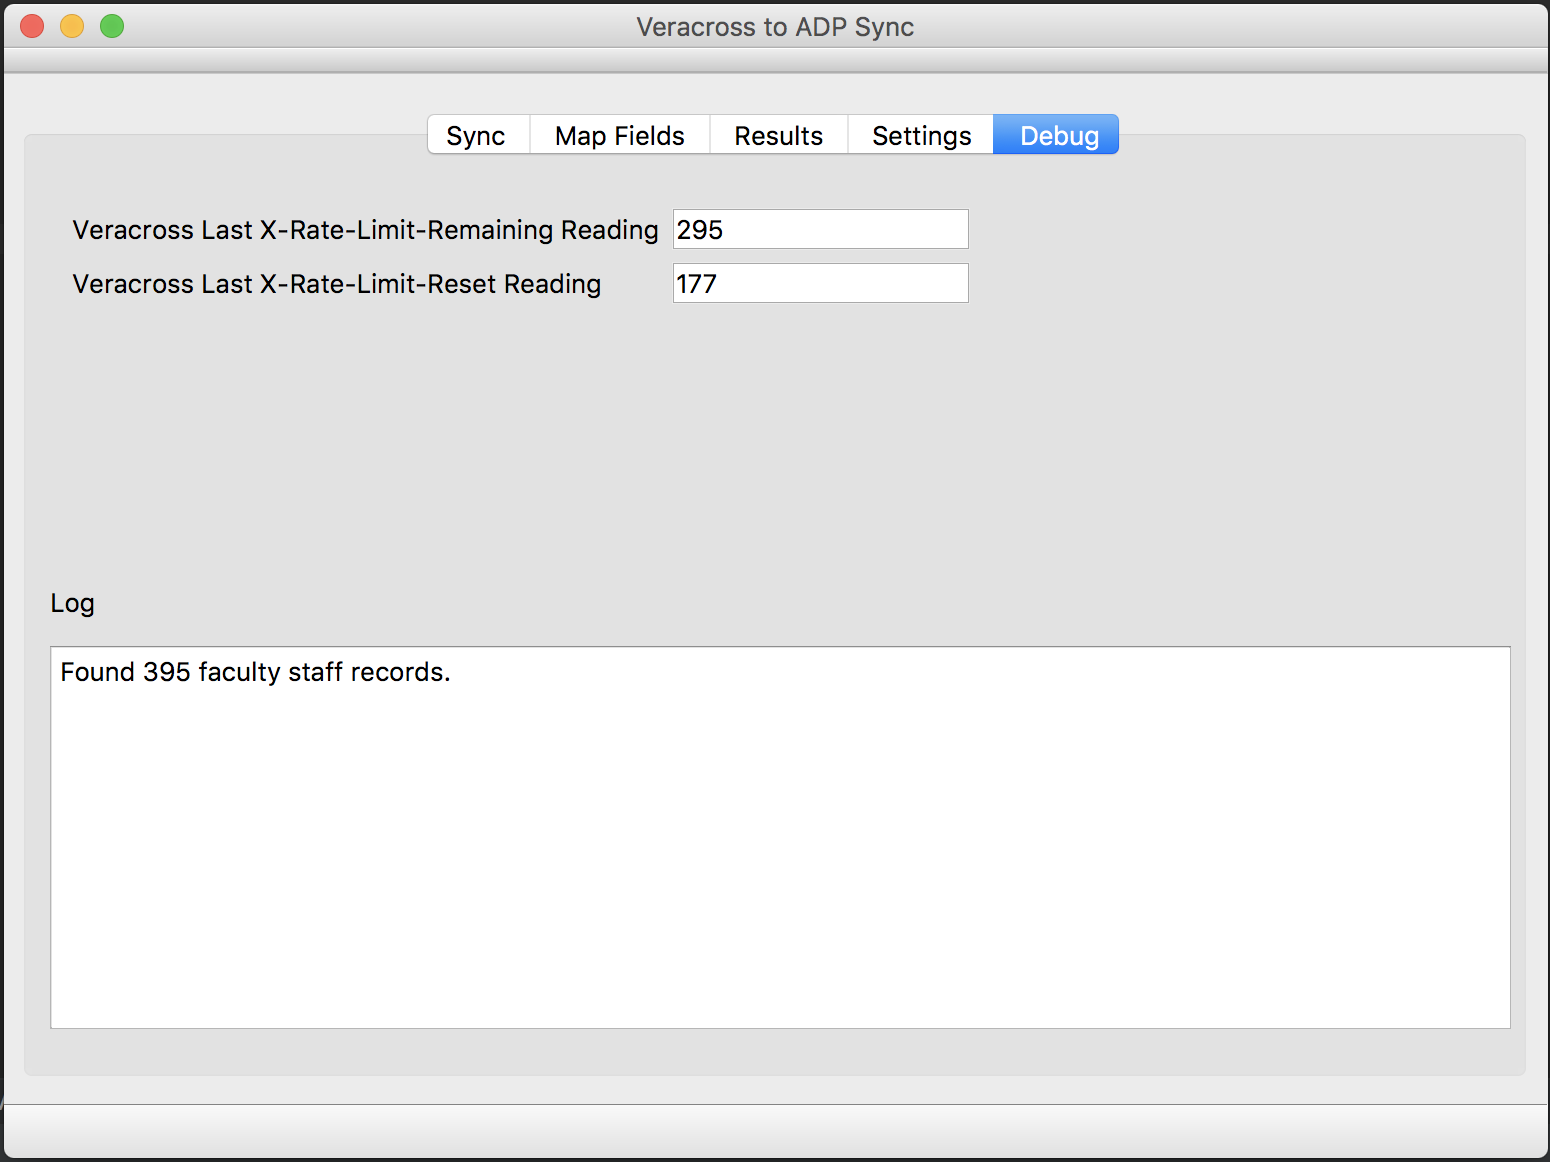
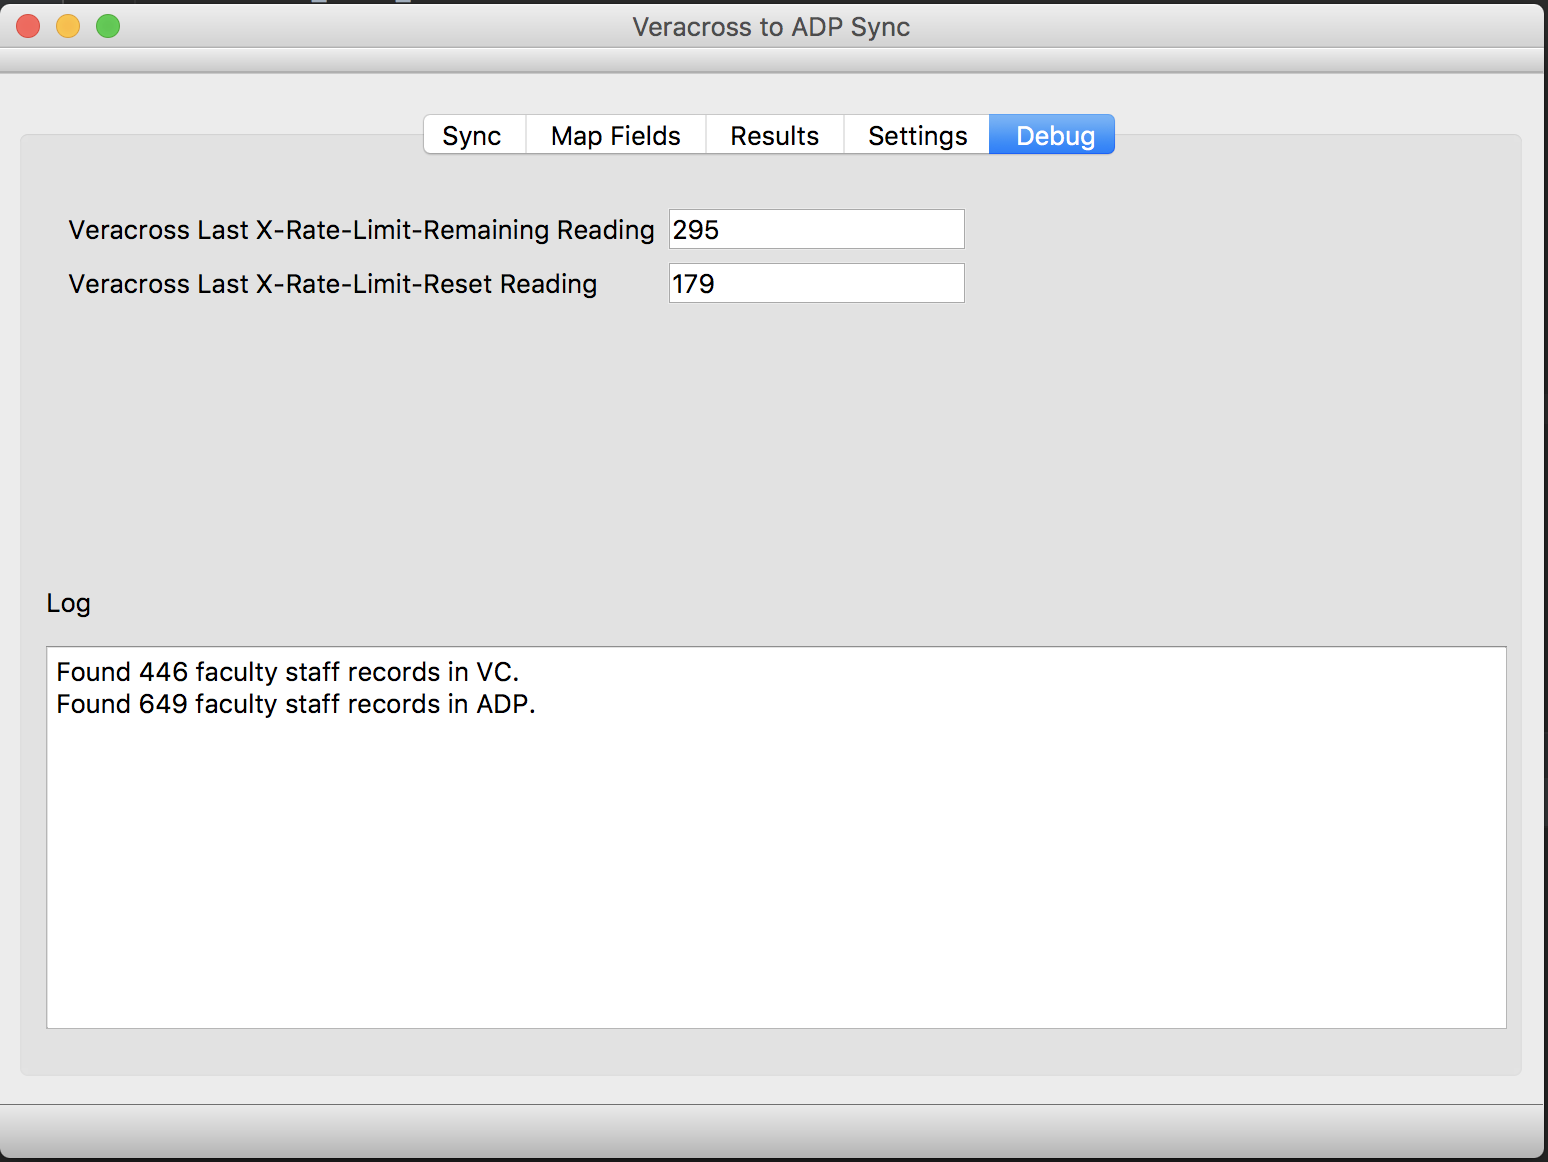
working adp v1

diff --git a/mainwindow.py b/mainwindow.py
@@ -24,29 +24,46 @@ class Ui_MainWindow(object):
         self.logo_label.setText("")
         self.logo_label.setObjectName("logo_label")
         self.gridLayoutWidget = QtWidgets.QWidget(self.syncTab)
-        self.gridLayoutWidget.setGeometry(QtCore.QRect(10, 10, 371, 71))
+        self.gridLayoutWidget.setGeometry(QtCore.QRect(10, 10, 371, 134))
         self.gridLayoutWidget.setObjectName("gridLayoutWidget")
         self.gridLayout = QtWidgets.QGridLayout(self.gridLayoutWidget)
         self.gridLayout.setContentsMargins(11, 11, 11, 11)
         self.gridLayout.setSpacing(6)
         self.gridLayout.setObjectName("gridLayout")
-        self.vcFSRecordCount = QtWidgets.QLabel(self.gridLayoutWidget)
-        self.vcFSRecordCount.setObjectName("vcFSRecordCount")
-        self.gridLayout.addWidget(self.vcFSRecordCount, 0, 2, 1, 1)
-        self.vcParseStatusLabel = QtWidgets.QLabel(self.gridLayoutWidget)
-        self.vcParseStatusLabel.setText("")
-        self.vcParseStatusLabel.setObjectName("vcParseStatusLabel")
-        self.gridLayout.addWidget(self.vcParseStatusLabel, 1, 1, 1, 1)
-        self.parseVCDataButton = QtWidgets.QPushButton(self.gridLayoutWidget)
-        self.parseVCDataButton.setObjectName("parseVCDataButton")
-        self.gridLayout.addWidget(self.parseVCDataButton, 1, 0, 1, 1)
-        self.getVCDataButton = QtWidgets.QPushButton(self.gridLayoutWidget)
-        self.getVCDataButton.setObjectName("getVCDataButton")
-        self.gridLayout.addWidget(self.getVCDataButton, 0, 0, 1, 1)
         self.vcDataFSStatusLabel = QtWidgets.QLabel(self.gridLayoutWidget)
         self.vcDataFSStatusLabel.setText("")
         self.vcDataFSStatusLabel.setObjectName("vcDataFSStatusLabel")
         self.gridLayout.addWidget(self.vcDataFSStatusLabel, 0, 1, 1, 1)
+        self.getVCDataButton = QtWidgets.QPushButton(self.gridLayoutWidget)
+        self.getVCDataButton.setObjectName("getVCDataButton")
+        self.gridLayout.addWidget(self.getVCDataButton, 0, 0, 1, 1)
+        self.parseVCDataButton = QtWidgets.QPushButton(self.gridLayoutWidget)
+        self.parseVCDataButton.setObjectName("parseVCDataButton")
+        self.gridLayout.addWidget(self.parseVCDataButton, 1, 0, 1, 1)
+        self.vcParseStatusLabel = QtWidgets.QLabel(self.gridLayoutWidget)
+        self.vcParseStatusLabel.setText("")
+        self.vcParseStatusLabel.setObjectName("vcParseStatusLabel")
+        self.gridLayout.addWidget(self.vcParseStatusLabel, 1, 1, 1, 1)
+        self.vcFSRecordCount = QtWidgets.QLabel(self.gridLayoutWidget)
+        self.vcFSRecordCount.setObjectName("vcFSRecordCount")
+        self.gridLayout.addWidget(self.vcFSRecordCount, 0, 2, 1, 1)
+        self.adpDataFSStatusLabel = QtWidgets.QLabel(self.gridLayoutWidget)
+        self.adpDataFSStatusLabel.setText("")
+        self.adpDataFSStatusLabel.setObjectName("adpDataFSStatusLabel")
+        self.gridLayout.addWidget(self.adpDataFSStatusLabel, 2, 1, 1, 1)
+        self.btn_getADPData = QtWidgets.QPushButton(self.gridLayoutWidget)
+        self.btn_getADPData.setObjectName("btn_getADPData")
+        self.gridLayout.addWidget(self.btn_getADPData, 2, 0, 1, 1)
+        self.adpRecordCount = QtWidgets.QLabel(self.gridLayoutWidget)
+        self.adpRecordCount.setObjectName("adpRecordCount")
+        self.gridLayout.addWidget(self.adpRecordCount, 2, 2, 1, 1)
+        self.btn_parseADPData = QtWidgets.QPushButton(self.gridLayoutWidget)
+        self.btn_parseADPData.setObjectName("btn_parseADPData")
+        self.gridLayout.addWidget(self.btn_parseADPData, 3, 0, 1, 1)
+        self.adpParseStatusLabel = QtWidgets.QLabel(self.gridLayoutWidget)
+        self.adpParseStatusLabel.setText("")
+        self.adpParseStatusLabel.setObjectName("adpParseStatusLabel")
+        self.gridLayout.addWidget(self.adpParseStatusLabel, 3, 1, 1, 1)
         self.tabs.addTab(self.syncTab, "")
         self.fieldMapTab = QtWidgets.QWidget()
         self.fieldMapTab.setObjectName("fieldMapTab")
@@ -93,65 +110,65 @@ class Ui_MainWindow(object):
         self.gridLayout_3.setContentsMargins(11, 11, 11, 11)
         self.gridLayout_3.setSpacing(6)
         self.gridLayout_3.setObjectName("gridLayout_3")
-        self.lbl_adpVCCustomFieldName = QtWidgets.QLabel(self.gridLayoutWidget_3)
-        self.lbl_adpVCCustomFieldName.setObjectName("lbl_adpVCCustomFieldName")
-        self.gridLayout_3.addWidget(self.lbl_adpVCCustomFieldName, 5, 0, 1, 1)
-        self.btn_pickerADPCertificateKey = QtWidgets.QPushButton(self.gridLayoutWidget_3)
-        self.btn_pickerADPCertificateKey.setObjectName("btn_pickerADPCertificateKey")
-        self.gridLayout_3.addWidget(self.btn_pickerADPCertificateKey, 11, 1, 1, 1)
-        self.lbl_CertificateKeyPath = QtWidgets.QLabel(self.gridLayoutWidget_3)
-        self.lbl_CertificateKeyPath.setObjectName("lbl_CertificateKeyPath")
-        self.gridLayout_3.addWidget(self.lbl_CertificateKeyPath, 10, 0, 1, 1)
-        self.lineEdit_adpCertificateKeyPath = QtWidgets.QLineEdit(self.gridLayoutWidget_3)
-        self.lineEdit_adpCertificateKeyPath.setObjectName("lineEdit_adpCertificateKeyPath")
-        self.gridLayout_3.addWidget(self.lineEdit_adpCertificateKeyPath, 10, 1, 1, 1)
-        self.lbl_adpNetworkUsername = QtWidgets.QLabel(self.gridLayoutWidget_3)
-        self.lbl_adpNetworkUsername.setObjectName("lbl_adpNetworkUsername")
-        self.gridLayout_3.addWidget(self.lbl_adpNetworkUsername, 3, 0, 1, 1)
-        self.vc_api_url = QtWidgets.QLineEdit(self.gridLayoutWidget_3)
-        self.vc_api_url.setObjectName("vc_api_url")
-        self.gridLayout_3.addWidget(self.vc_api_url, 2, 1, 1, 1)
-        self.lbl_vcapiurl = QtWidgets.QLabel(self.gridLayoutWidget_3)
-        self.lbl_vcapiurl.setObjectName("lbl_vcapiurl")
-        self.gridLayout_3.addWidget(self.lbl_vcapiurl, 2, 0, 1, 1)
+        self.lineEdit_adpPassword = QtWidgets.QLineEdit(self.gridLayoutWidget_3)
+        self.lineEdit_adpPassword.setEchoMode(QtWidgets.QLineEdit.PasswordEchoOnEdit)
+        self.lineEdit_adpPassword.setObjectName("lineEdit_adpPassword")
+        self.gridLayout_3.addWidget(self.lineEdit_adpPassword, 4, 1, 1, 1)
+        self.lbl_adpNetworkPassword = QtWidgets.QLabel(self.gridLayoutWidget_3)
+        self.lbl_adpNetworkPassword.setObjectName("lbl_adpNetworkPassword")
+        self.gridLayout_3.addWidget(self.lbl_adpNetworkPassword, 4, 0, 1, 1)
+        self.lineEdit_adpVCCustomFieldName = QtWidgets.QLineEdit(self.gridLayoutWidget_3)
+        self.lineEdit_adpVCCustomFieldName.setObjectName("lineEdit_adpVCCustomFieldName")
+        self.gridLayout_3.addWidget(self.lineEdit_adpVCCustomFieldName, 5, 1, 1, 1)
+        self.btn_pickerADPCertificate = QtWidgets.QPushButton(self.gridLayoutWidget_3)
+        self.btn_pickerADPCertificate.setObjectName("btn_pickerADPCertificate")
+        self.gridLayout_3.addWidget(self.btn_pickerADPCertificate, 8, 1, 1, 1)
+        self.lbl_CertificatePath = QtWidgets.QLabel(self.gridLayoutWidget_3)
+        self.lbl_CertificatePath.setObjectName("lbl_CertificatePath")
+        self.gridLayout_3.addWidget(self.lbl_CertificatePath, 7, 0, 1, 1)
+        self.lineEdit_adpUsername = QtWidgets.QLineEdit(self.gridLayoutWidget_3)
+        self.lineEdit_adpUsername.setEchoMode(QtWidgets.QLineEdit.PasswordEchoOnEdit)
+        self.lineEdit_adpUsername.setObjectName("lineEdit_adpUsername")
+        self.gridLayout_3.addWidget(self.lineEdit_adpUsername, 3, 1, 1, 1)
+        self.lineEdit_adpCertificatePEMPath = QtWidgets.QLineEdit(self.gridLayoutWidget_3)
+        self.lineEdit_adpCertificatePEMPath.setObjectName("lineEdit_adpCertificatePEMPath")
+        self.gridLayout_3.addWidget(self.lineEdit_adpCertificatePEMPath, 7, 1, 1, 1)
+        self.lbl_vcpassword = QtWidgets.QLabel(self.gridLayoutWidget_3)
+        self.lbl_vcpassword.setObjectName("lbl_vcpassword")
+        self.gridLayout_3.addWidget(self.lbl_vcpassword, 1, 0, 1, 1)
+        self.lbl_vcapiusername = QtWidgets.QLabel(self.gridLayoutWidget_3)
+        self.lbl_vcapiusername.setObjectName("lbl_vcapiusername")
+        self.gridLayout_3.addWidget(self.lbl_vcapiusername, 0, 0, 1, 1)
+        self.vc_api_user = QtWidgets.QLineEdit(self.gridLayoutWidget_3)
+        self.vc_api_user.setEchoMode(QtWidgets.QLineEdit.PasswordEchoOnEdit)
+        self.vc_api_user.setObjectName("vc_api_user")
+        self.gridLayout_3.addWidget(self.vc_api_user, 0, 1, 1, 1)
         self.vc_api_pass = QtWidgets.QLineEdit(self.gridLayoutWidget_3)
         self.vc_api_pass.setText("")
         self.vc_api_pass.setEchoMode(QtWidgets.QLineEdit.PasswordEchoOnEdit)
         self.vc_api_pass.setObjectName("vc_api_pass")
         self.gridLayout_3.addWidget(self.vc_api_pass, 1, 1, 1, 1)
-        self.vc_api_user = QtWidgets.QLineEdit(self.gridLayoutWidget_3)
-        self.vc_api_user.setEchoMode(QtWidgets.QLineEdit.PasswordEchoOnEdit)
-        self.vc_api_user.setObjectName("vc_api_user")
-        self.gridLayout_3.addWidget(self.vc_api_user, 0, 1, 1, 1)
-        self.lbl_vcapiusername = QtWidgets.QLabel(self.gridLayoutWidget_3)
-        self.lbl_vcapiusername.setObjectName("lbl_vcapiusername")
-        self.gridLayout_3.addWidget(self.lbl_vcapiusername, 0, 0, 1, 1)
-        self.lbl_vcpassword = QtWidgets.QLabel(self.gridLayoutWidget_3)
-        self.lbl_vcpassword.setObjectName("lbl_vcpassword")
-        self.gridLayout_3.addWidget(self.lbl_vcpassword, 1, 0, 1, 1)
-        self.lineEdit_adpCertificatePEMPath = QtWidgets.QLineEdit(self.gridLayoutWidget_3)
-        self.lineEdit_adpCertificatePEMPath.setObjectName("lineEdit_adpCertificatePEMPath")
-        self.gridLayout_3.addWidget(self.lineEdit_adpCertificatePEMPath, 7, 1, 1, 1)
-        self.lineEdit_adpUsername = QtWidgets.QLineEdit(self.gridLayoutWidget_3)
-        self.lineEdit_adpUsername.setEchoMode(QtWidgets.QLineEdit.PasswordEchoOnEdit)
-        self.lineEdit_adpUsername.setObjectName("lineEdit_adpUsername")
-        self.gridLayout_3.addWidget(self.lineEdit_adpUsername, 3, 1, 1, 1)
-        self.lbl_CertificatePath = QtWidgets.QLabel(self.gridLayoutWidget_3)
-        self.lbl_CertificatePath.setObjectName("lbl_CertificatePath")
-        self.gridLayout_3.addWidget(self.lbl_CertificatePath, 7, 0, 1, 1)
-        self.btn_pickerADPCertificate = QtWidgets.QPushButton(self.gridLayoutWidget_3)
-        self.btn_pickerADPCertificate.setObjectName("btn_pickerADPCertificate")
-        self.gridLayout_3.addWidget(self.btn_pickerADPCertificate, 8, 1, 1, 1)
-        self.lineEdit_adpVCCustomFieldName = QtWidgets.QLineEdit(self.gridLayoutWidget_3)
-        self.lineEdit_adpVCCustomFieldName.setObjectName("lineEdit_adpVCCustomFieldName")
-        self.gridLayout_3.addWidget(self.lineEdit_adpVCCustomFieldName, 5, 1, 1, 1)
-        self.lbl_adpNetworkPassword = QtWidgets.QLabel(self.gridLayoutWidget_3)
-        self.lbl_adpNetworkPassword.setObjectName("lbl_adpNetworkPassword")
-        self.gridLayout_3.addWidget(self.lbl_adpNetworkPassword, 4, 0, 1, 1)
-        self.lineEdit_adpPassword = QtWidgets.QLineEdit(self.gridLayoutWidget_3)
-        self.lineEdit_adpPassword.setEchoMode(QtWidgets.QLineEdit.PasswordEchoOnEdit)
-        self.lineEdit_adpPassword.setObjectName("lineEdit_adpPassword")
-        self.gridLayout_3.addWidget(self.lineEdit_adpPassword, 4, 1, 1, 1)
+        self.lbl_vcapiurl = QtWidgets.QLabel(self.gridLayoutWidget_3)
+        self.lbl_vcapiurl.setObjectName("lbl_vcapiurl")
+        self.gridLayout_3.addWidget(self.lbl_vcapiurl, 2, 0, 1, 1)
+        self.vc_api_url = QtWidgets.QLineEdit(self.gridLayoutWidget_3)
+        self.vc_api_url.setObjectName("vc_api_url")
+        self.gridLayout_3.addWidget(self.vc_api_url, 2, 1, 1, 1)
+        self.lbl_adpNetworkUsername = QtWidgets.QLabel(self.gridLayoutWidget_3)
+        self.lbl_adpNetworkUsername.setObjectName("lbl_adpNetworkUsername")
+        self.gridLayout_3.addWidget(self.lbl_adpNetworkUsername, 3, 0, 1, 1)
+        self.lineEdit_adpCertificateKeyPath = QtWidgets.QLineEdit(self.gridLayoutWidget_3)
+        self.lineEdit_adpCertificateKeyPath.setObjectName("lineEdit_adpCertificateKeyPath")
+        self.gridLayout_3.addWidget(self.lineEdit_adpCertificateKeyPath, 10, 1, 1, 1)
+        self.lbl_CertificateKeyPath = QtWidgets.QLabel(self.gridLayoutWidget_3)
+        self.lbl_CertificateKeyPath.setObjectName("lbl_CertificateKeyPath")
+        self.gridLayout_3.addWidget(self.lbl_CertificateKeyPath, 10, 0, 1, 1)
+        self.btn_pickerADPCertificateKey = QtWidgets.QPushButton(self.gridLayoutWidget_3)
+        self.btn_pickerADPCertificateKey.setObjectName("btn_pickerADPCertificateKey")
+        self.gridLayout_3.addWidget(self.btn_pickerADPCertificateKey, 11, 1, 1, 1)
+        self.lbl_adpVCCustomFieldName = QtWidgets.QLabel(self.gridLayoutWidget_3)
+        self.lbl_adpVCCustomFieldName.setObjectName("lbl_adpVCCustomFieldName")
+        self.gridLayout_3.addWidget(self.lbl_adpVCCustomFieldName, 5, 0, 1, 1)
         self.tabs.addTab(self.settingsTab, "")
         self.debugTab = QtWidgets.QWidget()
         self.debugTab.setObjectName("debugTab")
@@ -214,9 +231,12 @@ class Ui_MainWindow(object):
     def retranslateUi(self, MainWindow):
         _translate = QtCore.QCoreApplication.translate
         MainWindow.setWindowTitle(_translate("MainWindow", "Veracross to ADP Sync"))
-        self.vcFSRecordCount.setText(_translate("MainWindow", "0 Faculty Staff Records"))
-        self.parseVCDataButton.setText(_translate("MainWindow", "Parse Veracross Data"))
         self.getVCDataButton.setText(_translate("MainWindow", "Get Veracross Data"))
+        self.parseVCDataButton.setText(_translate("MainWindow", "Parse Veracross Data"))
+        self.vcFSRecordCount.setText(_translate("MainWindow", "0 Faculty Staff Records"))
+        self.btn_getADPData.setText(_translate("MainWindow", "Get ADP Data"))
+        self.adpRecordCount.setText(_translate("MainWindow", "0 Faculty Staff Records"))
+        self.btn_parseADPData.setText(_translate("MainWindow", "Parse ADP Data"))
         self.tabs.setTabText(self.tabs.indexOf(self.syncTab), _translate("MainWindow", "Sync"))
         self.label.setText(_translate("MainWindow", "Insert field mapping in JSON format.  See README."))
         self.btn_saveFieldMap.setText(_translate("MainWindow", "Save"))
@@ -225,24 +245,24 @@ class Ui_MainWindow(object):
         self.btn_ResultsNext.setText(_translate("MainWindow", "Next"))
         self.tabs.setTabText(self.tabs.indexOf(self.resultsTab), _translate("MainWindow", "Results"))
         self.settingsSave.setText(_translate("MainWindow", "Save"))
-        self.lbl_adpVCCustomFieldName.setToolTip(_translate("MainWindow", "Name of custom field in ADP where the Veracross ID is stored."))
-        self.lbl_adpVCCustomFieldName.setText(_translate("MainWindow", "ADP VC Custom Field Name"))
-        self.btn_pickerADPCertificateKey.setText(_translate("MainWindow", "Select Certificate Key"))
-        self.lbl_CertificateKeyPath.setToolTip(_translate("MainWindow", "Certificate file used to create ADP certificate above."))
-        self.lbl_CertificateKeyPath.setText(_translate("MainWindow", "ADP Certificate Key"))
-        self.lbl_adpNetworkUsername.setToolTip(_translate("MainWindow", "ADP Network Username provided by ADP."))
-        self.lbl_adpNetworkUsername.setText(_translate("MainWindow", "ADP Network Username"))
-        self.lbl_vcapiurl.setToolTip(_translate("MainWindow", "Veracross API Base URL."))
-        self.lbl_vcapiurl.setText(_translate("MainWindow", "Veracross API Base URL"))
-        self.lbl_vcapiusername.setToolTip(_translate("MainWindow", "Veracross API Username provided by Veracross."))
-        self.lbl_vcapiusername.setText(_translate("MainWindow", "Veracross API Username"))
-        self.lbl_vcpassword.setToolTip(_translate("MainWindow", "Veracross API Password provided by Veracross."))
-        self.lbl_vcpassword.setText(_translate("MainWindow", "Veracross API Password"))
-        self.lbl_CertificatePath.setToolTip(_translate("MainWindow", "Path to Base64 encoded certificate provided by ADP."))
-        self.lbl_CertificatePath.setText(_translate("MainWindow", "ADP Certificate (PEM)"))
-        self.btn_pickerADPCertificate.setText(_translate("MainWindow", "Select Certificate"))
         self.lbl_adpNetworkPassword.setToolTip(_translate("MainWindow", "ADP Network Password provided by ADP."))
         self.lbl_adpNetworkPassword.setText(_translate("MainWindow", "ADP Network Password"))
+        self.btn_pickerADPCertificate.setText(_translate("MainWindow", "Select Certificate"))
+        self.lbl_CertificatePath.setToolTip(_translate("MainWindow", "Path to Base64 encoded certificate provided by ADP."))
+        self.lbl_CertificatePath.setText(_translate("MainWindow", "ADP Certificate (PEM)"))
+        self.lbl_vcpassword.setToolTip(_translate("MainWindow", "Veracross API Password provided by Veracross."))
+        self.lbl_vcpassword.setText(_translate("MainWindow", "Veracross API Password"))
+        self.lbl_vcapiusername.setToolTip(_translate("MainWindow", "Veracross API Username provided by Veracross."))
+        self.lbl_vcapiusername.setText(_translate("MainWindow", "Veracross API Username"))
+        self.lbl_vcapiurl.setToolTip(_translate("MainWindow", "Veracross API Base URL."))
+        self.lbl_vcapiurl.setText(_translate("MainWindow", "Veracross API Base URL"))
+        self.lbl_adpNetworkUsername.setToolTip(_translate("MainWindow", "ADP Network Username provided by ADP."))
+        self.lbl_adpNetworkUsername.setText(_translate("MainWindow", "ADP Network Username"))
+        self.lbl_CertificateKeyPath.setToolTip(_translate("MainWindow", "Certificate file used to create ADP certificate above."))
+        self.lbl_CertificateKeyPath.setText(_translate("MainWindow", "ADP Certificate Key"))
+        self.btn_pickerADPCertificateKey.setText(_translate("MainWindow", "Select Certificate Key"))
+        self.lbl_adpVCCustomFieldName.setToolTip(_translate("MainWindow", "Name of custom field in ADP where the Veracross ID is stored."))
+        self.lbl_adpVCCustomFieldName.setText(_translate("MainWindow", "ADP VC Custom Field Name"))
         self.tabs.setTabText(self.tabs.indexOf(self.settingsTab), _translate("MainWindow", "Settings"))
         self.lbl_Log.setText(_translate("MainWindow", "Log"))
         self.lbl_vcLastXRateLimitReading.setText(_translate("MainWindow", "Veracross Last X-Rate-Limit-Remaining Reading"))

diff --git a/main.py b/main.py
@@ -3,6 +3,7 @@ from PyQt5 import QtWidgets, QtGui, QtCore
 from mainwindow import Ui_MainWindow
 import images
 import veracross_api as v
+import adp_api as adp
 import config
 import json
 
@@ -17,6 +18,8 @@ class Main(QtWidgets.QMainWindow):
         self.ui.logo_label.setPixmap(QtGui.QPixmap(":/images/adp-vc-logo-100.png"))
         self.ui.vcDataFSStatusLabel.setPixmap(QtGui.QPixmap(":/images/red_status.png"))
         self.ui.vcParseStatusLabel.setPixmap(QtGui.QPixmap(":/images/red_status.png"))
+        self.ui.adpDataFSStatusLabel.setPixmap(QtGui.QPixmap(":/images/red_status.png"))
+        self.ui.adpParseStatusLabel.setPixmap(QtGui.QPixmap(":/images/red_status.png"))
 
         # Gather Config
         self.c = config.load_settings("config")
@@ -43,10 +46,15 @@ class Main(QtWidgets.QMainWindow):
             self.ui.txt_fieldMap.setText(self.field_maps)
 
         # Connect buttons to methods
+        # Sync Tab Buttons
         self.ui.getVCDataButton.clicked.connect(self.get_vc_data)
-        self.ui.settingsSave.clicked.connect(self.save_settings_button)
         self.ui.parseVCDataButton.clicked.connect(self.parse_vc_data)
+        self.ui.btn_getADPData.clicked.connect(self.get_adp_data)
+        self.ui.btn_parseADPData.clicked.connect(self.parse_adp_data)
+        # Map Field Tab Buttons
         self.ui.btn_saveFieldMap.clicked.connect(self.save_field_map)
+        # Settings Buttons
+        self.ui.settingsSave.clicked.connect(self.save_settings_button)
         self.ui.btn_pickerADPCertificate.clicked.connect(self.select_cert_file)
         self.ui.btn_pickerADPCertificateKey.clicked.connect(self.select_key_file)
 
@@ -67,7 +75,7 @@ class Main(QtWidgets.QMainWindow):
                 self.ui.vcDataFSStatusLabel.setPixmap(QtGui.QPixmap(":/images/green_status.png"))
                 self.ui.lineEditXRateLimitReading.setText(str(self.vc.rate_limit_remaining))
                 self.ui.lineEditXRateLimitResetReading.setText(str(self.vc.rate_limit_reset))
-                self.debug_append_log("Found " + str(len(self.vcfsdata)) + " faculty staff records.")
+                self.debug_append_log("Found " + str(len(self.vcfsdata)) + " faculty staff records in VC.")
         except:
             self.debug_append_log("Cannot get faculty staff from VC")
 
@@ -114,6 +122,23 @@ class Main(QtWidgets.QMainWindow):
             self.debug_append_log("Veracross data parse complete.")
             self.ui.vcParseStatusLabel.setPixmap(QtGui.QPixmap(":/images/green_status.png"))
             self.ui.resultsTextEdit.setText(str(d))
+
+    def get_adp_data(self):
+        try:
+            a = adp.Adp(self.c)
+            self.adpfsdata = a.workers()
+            if len(self.adpfsdata) > 0:
+                self.ui.adpRecordCount.setText(str(len(self.adpfsdata)) + " Faculty Staff Records")
+                self.ui.adpDataFSStatusLabel.setPixmap(QtGui.QPixmap(":/images/green_status.png"))
+                self.debug_append_log("Found " + str(len(self.adpfsdata)) + " faculty staff records in ADP.")
+
+        except:
+            return None
+
+
+
+    def parse_adp_data(self):
+        return True
 
     def save_settings_button(self):
         """

diff --git a/adp_api.py b/adp_api.py
@@ -2,12 +2,7 @@
 ADP API Class
 Built for Veracross ADP Sync, but can be portable.
 
-Create new object with config as fist parameter.  Config should contain a dictionary that contains at a minimum:
-{'adpnetuser': 'xxx-xxxx-xxxx-xxxx-xxxx',
-'adpnetpass': 'xxx-xxxx-xxxx-xxxx-xxxx',
-'adpcertpath': 'path/to/cert.pem',
-'adpcertkeypath': 'path/to/auth.key'
-}
+Create new object with config as fist parameter.  Config should be in a dictionary (see below).
 
 Example:
     c = {'adpnetuser': 'xxx-xxxx-xxxx-xxxx-xxxx',
@@ -16,12 +11,12 @@ Example:
         'adpcertkeypath': 'path/to/auth.key'
         }
     a = api_api.Adp(c)
-    a.get_workers()
+    a.workers()
 """
+
 import requests
 import datetime
 import math
-import json
 
 __author__ = "Forrest Beck"
 

diff --git a/veracross_api.py b/veracross_api.py
@@ -48,9 +48,7 @@ class Veracross(object):
         """
         self.rate_limit_remaining = int(limit_remaining)
         self.rate_limit_reset = int(limit_reset)
-        print(self.rate_limit_remaining)
         if self.rate_limit_remaining == 1:
-            print("waiting for vc rate limit:" + str(self.rate_limit_reset))
             time.sleep(self.rate_limit_reset + 1)
 
     def pull(self, source, parameters=None):
